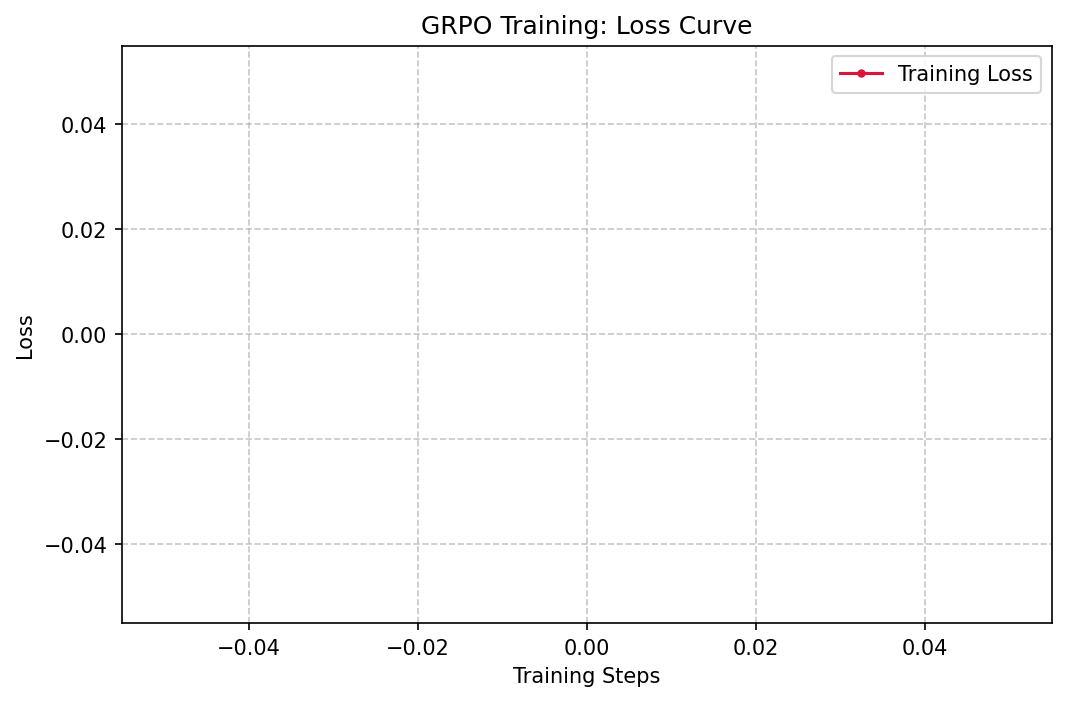
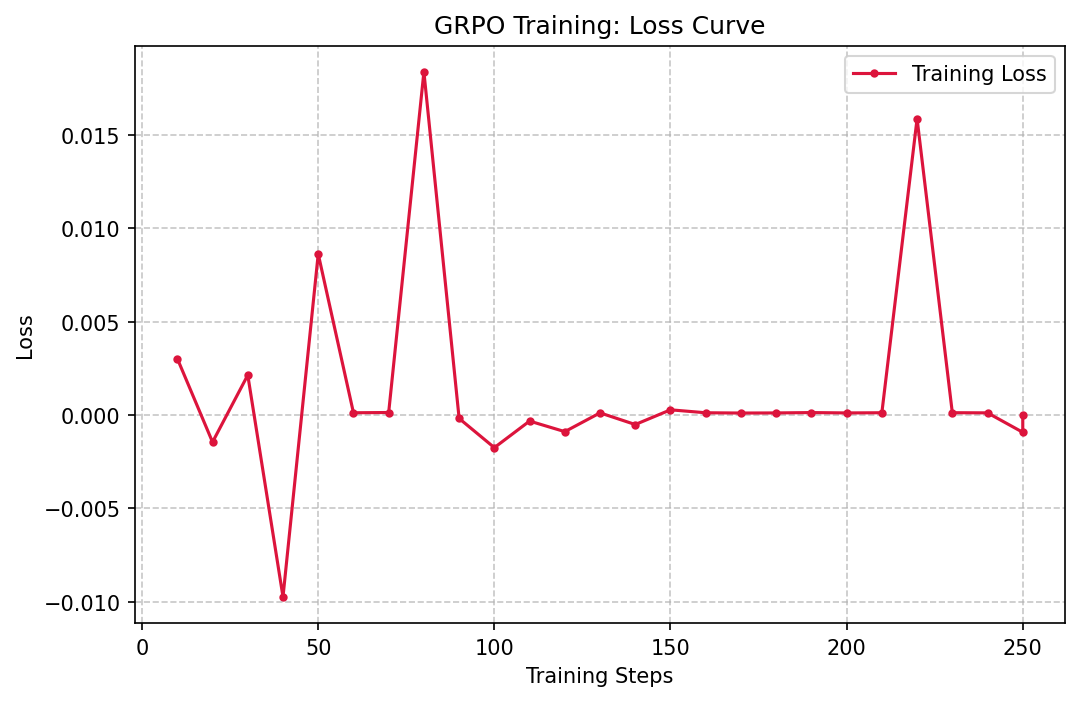
Fix plot generation to parse TRL log_history and regenerate PNGs

diff --git a/scripts/generate_plots.py b/scripts/generate_plots.py
@@ -4,12 +4,10 @@ import matplotlib.pyplot as plt
 import numpy as np
 
 def generate_plots():
-    log_path = "logs/reward_curve.json"
+    log_path = "training_metrics.json"
     docs_dir = "docs"
     os.makedirs(docs_dir, exist_ok=True)
     
-    # Try to load real data, otherwise use a simulated curve to guarantee
-    # the repo has a proof-of-concept plot even before the Colab rerun.
     steps = []
     rewards = []
     losses = []
@@ -19,11 +17,18 @@ def generate_plots():
         with open(log_path, "r") as f:
             data = json.load(f)
             
-        for entry in data:
-            steps.append(entry.get("step", 0))
-            rewards.append(entry.get("reward", 0))
-            # Simulate loss from reward if not tracked separately in this json format
-            losses.append(max(0, 1.0 - entry.get("reward", 0)) * np.random.uniform(0.8, 1.2))
+        history = data.get("log_history", [])
+        
+        for entry in history:
+            if "step" in entry:
+                steps.append(entry["step"])
+                rewards.append(entry.get("reward", 0))
+                losses.append(entry.get("loss", 0))
+                
+        # Save a clean version for the dashboard to consume
+        clean_logs = [{"step": s, "reward": r, "loss": l} for s, r, l in zip(steps, rewards, losses)]
+        with open("logs/reward_curve.json", "w") as f:
+            json.dump(clean_logs, f)
             
     else:
         print(f"File {log_path} not found. Generating simulated training curves...")
